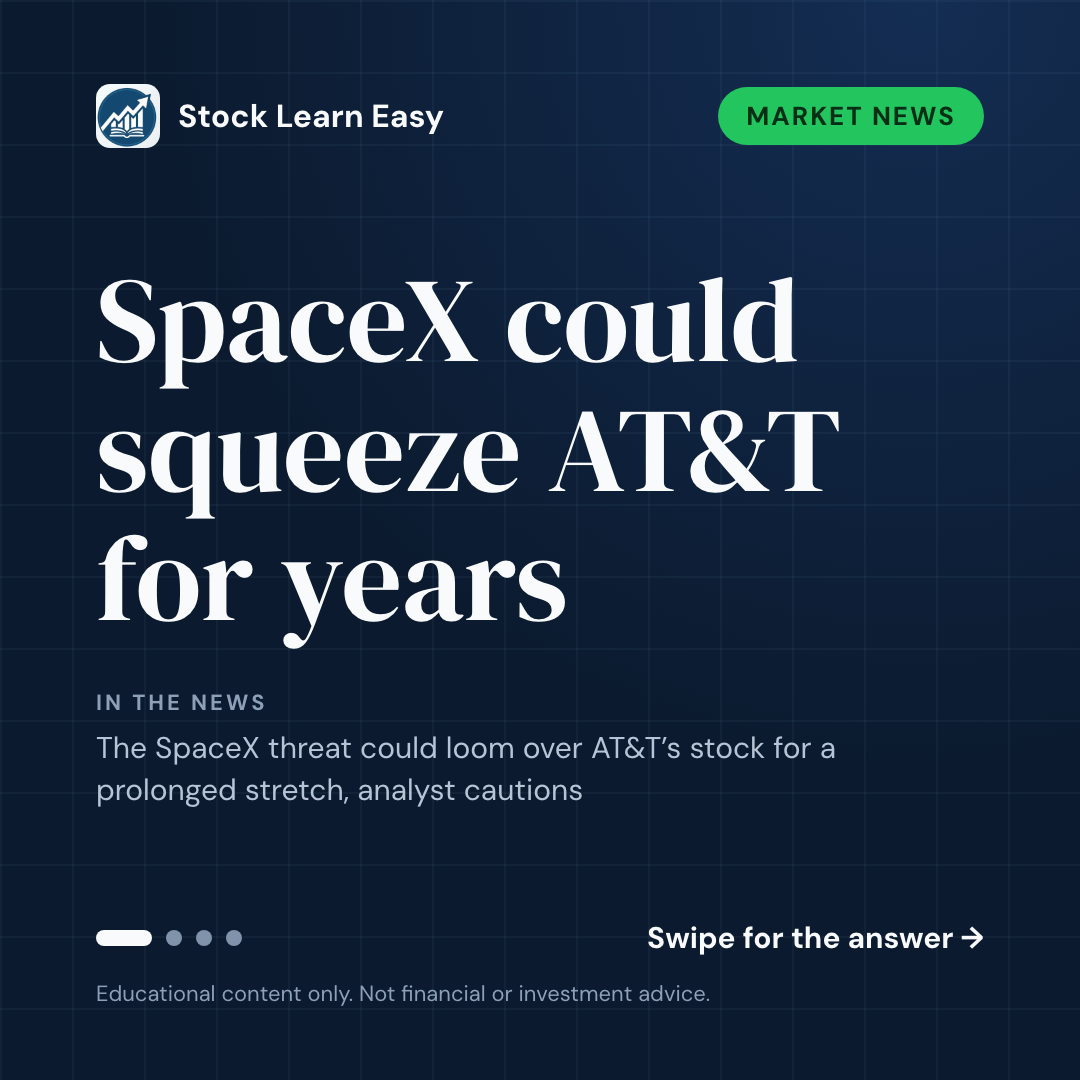
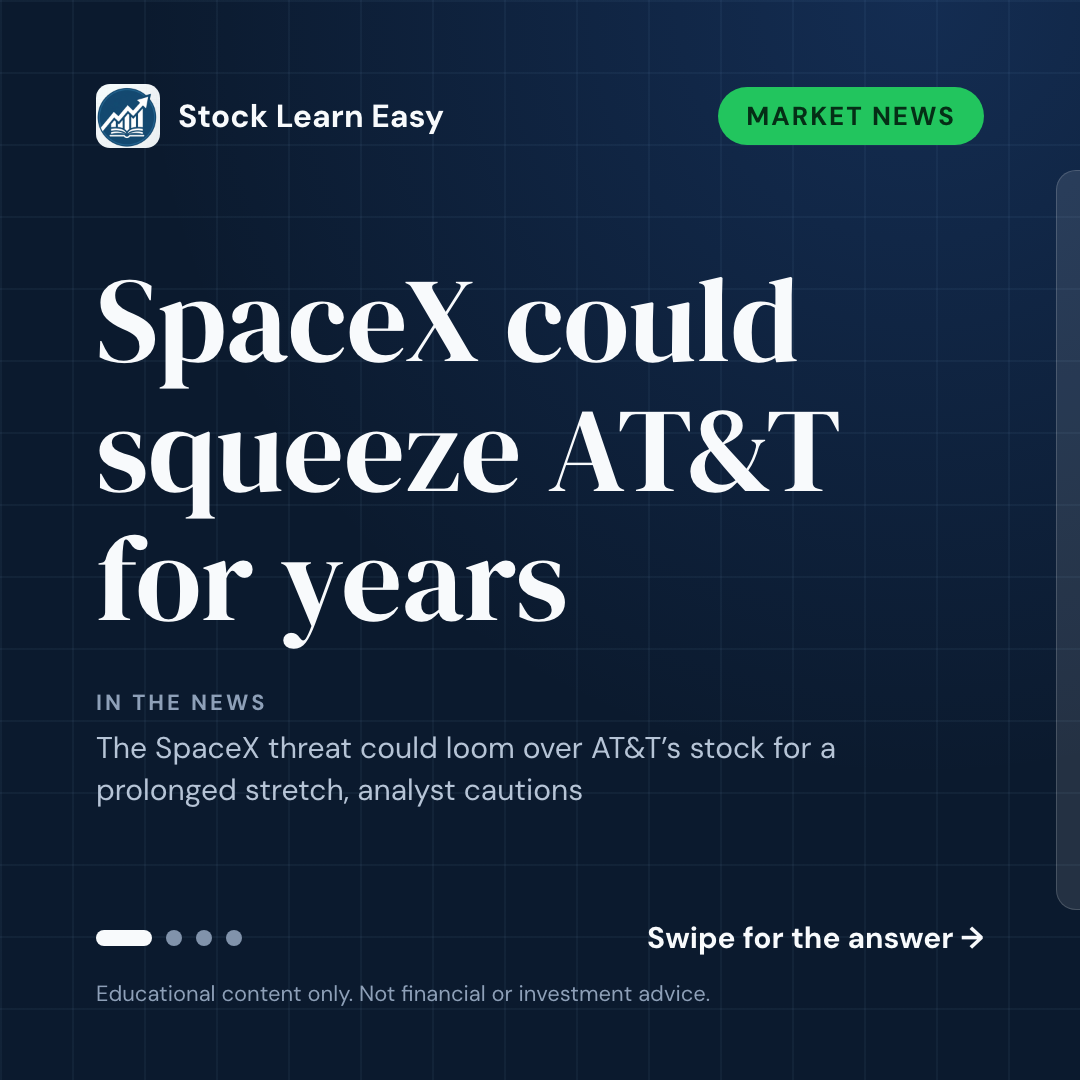
Items 45, 47, 48: chart move as hero number, next-card peek on slide one, distinct last slide; queue rebuilt

Changed region(s): [[0.9778, 0.3667, 1.0, 0.8556]]

diff --git a/generate.py b/generate.py
@@ -866,23 +866,30 @@ def _card_foot(position, total, right_html):
     )
 
 
-def chart_body_html(chart, svg_width=888, svg_height=372, scale=1.0):
-    """What is plotted, where it stands, why it's here."""
+def chart_body_html(chart, svg_width=888, svg_height=300, scale=1.0):
+    """What is plotted, where it stands, why it's here.
+
+    Item 45, 14.10.2026: the move is the number the slide is about, so it is
+    the biggest thing on the card. It used to be a 32px pill beside the
+    price, the smallest text in the row.
+    """
     series = chart["series"]
     rising = series["change_pct"] >= 0
     s = lambda px: f"{round(px * scale)}px"
+    move_color = design.GREEN_TEXT if rising else "#f87171"
     return (
         '<div style="display:flex;flex-direction:column;gap:' + s(18) + ';">'
         f'<div class="eyebrow" style="font-size:{s(26)};color:{design.GREEN_TEXT};">THE CHART · '
         f'{escape(series["range_label"].upper())}</div>'
-        f'<div style="display:flex;align-items:baseline;gap:{s(26)};flex-wrap:wrap;">'
-        f'<div class="serif" style="font-size:{s(76)};line-height:1.05;">{escape(chart["label"])}</div>'
-        f'<div class="num" style="font-size:{s(44)};font-weight:500;">'
-        f'{market_data.fmt_price(series["last"], series["currency"])}</div>'
-        f'<div class="chg {"up" if rising else "down"}" style="font-size:{s(32)};padding:{s(8)} {s(22)};">'
+        f'<div style="display:flex;align-items:center;gap:{s(34)};">'
+        f'<div class="serif num" data-chart-move style="font-size:{s(132)};line-height:1;color:{move_color};">'
         f'{market_data.fmt_pct(series["change_pct"])}</div>'
-        '</div>'
-        f'<div style="margin-top:{s(10)};">{market_data.sparkline_svg(series, width=svg_width, height=svg_height)}</div>'
+        f'<div style="display:flex;flex-direction:column;gap:{s(6)};">'
+        f'<div class="serif" style="font-size:{s(52)};line-height:1.05;">{escape(chart["label"])}</div>'
+        f'<div class="num muted" style="font-size:{s(34)};font-weight:500;">'
+        f'now {market_data.fmt_price(series["last"], series["currency"])}</div>'
+        '</div></div>'
+        f'<div style="margin-top:{s(6)};">{market_data.sparkline_svg(series, width=svg_width, height=svg_height)}</div>'
         f'<div class="muted" style="font-size:{s(32)};line-height:1.4;">{escape(chart["why"])}</div>'
         f'<div class="faint" style="font-size:{s(22)};">Price data: Yahoo Finance. '
         'Past performance is not a prediction.</div>'
@@ -911,7 +918,8 @@ def render_slide_html(kind, position, total, category, when_utc, copy,
         foot = _card_foot(position, total, '<span class="muted">Swipe →</span>')
         # Flat ground: the grid and the glow are part of the brand frame too.
         flat = '<style>body { background-image:none; }</style>'
-        return design.page(CARD_SIZE, CARD_SIZE, CARD_PADDING, f'{flat}{main}{foot}')
+        peek = design.PEEK_HTML if total > 1 else ''
+        return design.page(CARD_SIZE, CARD_SIZE, CARD_PADDING, f'{flat}{main}{foot}{peek}')
 
     if kind == "hook":
         source = term[0] if category == "term" else news["title"]
@@ -985,8 +993,13 @@ def render_slide_html(kind, position, total, category, when_utc, copy,
         )
         foot = _card_foot(position, total, '<span class="faint">@stocklearneasy</span>')
 
+    extra = ''
+    if position == 1 and total > 1:
+        extra = design.PEEK_HTML
+    elif position == total and total > 1:
+        extra = design.END_CSS
     return design.page(CARD_SIZE, CARD_SIZE, CARD_PADDING,
-                       f'{head}{main}{foot}')
+                       f'{head}{main}{foot}{extra}')
 
 # Item 43. Slide one is mostly seen as a thumbnail about 150px wide, so the
 # hook has to clear a type size at that scale, not at 1080. 12px there is

diff --git a/design.py b/design.py
@@ -187,6 +187,30 @@ def dots_html(position, total):
     ) + "</div>"
 
 
+# Item 47, 14.10.2026: the dots alone were the only hint that slide one is
+# the first of several. A sliver of the next card at the right edge is the
+# cue people already read from every other carousel. It sits in the 96px
+# side padding, so it never touches the copy.
+PEEK_HTML = (
+    '<div style="position:fixed;right:0;top:170px;bottom:170px;width:24px;'
+    'background:rgba(255,255,255,0.10);border:1px solid rgba(255,255,255,0.16);'
+    'border-right:none;border-radius:20px 0 0 20px;"></div>'
+)
+
+# Item 48, 14.10.2026: the last slide shared the middle slides' ground, so
+# the end of the carousel did not feel like an end. It gets a green glow from
+# the bottom (towards the app CTA) and a green rule across the top.
+END_CSS = """<style>
+body {
+  background-image:
+    radial-gradient(circle at 20% 100%, rgba(34,197,94,0.17), rgba(34,197,94,0) 60%),
+    linear-gradient(rgba(148,184,230,0.055) 2px, transparent 2px),
+    linear-gradient(90deg, rgba(148,184,230,0.055) 2px, transparent 2px);
+}
+body::before { content:""; position:fixed; left:0; right:0; top:0; height:10px; background:GREEN_TOKEN; }
+</style>""".replace("GREEN_TOKEN", GREEN)
+
+
 def page(width, height, padding, body_html):
     return f"""<!DOCTYPE html>
 <html lang="en" dir="ltr">

diff --git a/IMPROVEMENTS.md b/IMPROVEMENTS.md
@@ -95,3 +95,12 @@ One improvement per run of `stocklearneasy-ig-improve`. Read before choosing.
 - **Item 43, gated:** the fit script now records the size it settled on, `hook_thumb_px` reads it back with a `--dump-dom` pass, and a hook under 12px at thumbnail scale is re-rendered without the source headline. Tested with a 12-word nonsense hook: fallback fired, still 9.7px, shipped with a warning as designed. All five queued slots rebuilt, 15 to 16.7px. Costs one extra headless Chrome call per post.
 - **Hebrew account not touched.** 42, 43, 13, 16 and 40 are all still SLE-only.
 - **Numbers (7d):** 3 followers, 10 posts, reach 69, views 97, 1 like, 1 comment, 0 saves or shares. The 10.10 reel at 53 is still the whole story; every other post 1 to 7. Nothing credited.
+
+## 2026-10-14: items 45, 47, 48 and 50, the carousel frame
+- **Item 20 still not eligible** (oldest post 17.9, first 30-day repost 17.10). Tier B is fully done, so this run moved into Tier C.
+- **Item 45:** the chart slide's move is the hero, 132px serif in green or red, with the label and "now 16.82" beside it. The sparkline went from 372 to 300px tall to make room. Carousels only.
+- **Item 47:** slide one of every multi-slide carousel has a sliver of the next card at the right edge, the swipe cue every other carousel uses. Applies to plain-hook and chart-first too.
+- **Item 48:** the last slide has a green glow from the bottom towards the app CTA and a green rule across the top, so the end reads as an end.
+- **Item 50:** measured instead of changed. The question line is 9.9:1 on the navy, not the weakest element; the off-dots at 5.6:1 are, and they clear AA. Marked done with no change.
+- **Queue:** 15.10 12:00 and 18:00, 16.10 12:00 and 18:00 rebuilt and inspected. 14.10 18:00 was left alone because it was publishing as this ran. Hebrew account not touched.
+- **Numbers (7d):** 3 followers, 10 posts, reach 73, views 96, 2 likes, 1 comment, 0 saves or shares. Unchanged from 13.10; the 10.10 reel at 53 is still most of the reach. Nothing credited.

diff --git a/metrics/winners.md b/metrics/winners.md
@@ -1,14 +1,14 @@
 # Above-median posts (backlog item 19)
 
-Generated by winners.py from the 2026-10-13..2026-10-13 snapshots. 50 posts, median reach 2.
+Generated by winners.py from the 2026-10-14..2026-10-14 snapshots. 52 posts, median reach 2.
 
 Copy the structure, never the topic. A shape with fewer than 10 posts is an anecdote (item 86).
 
 ## Median reach by shape
 
 - episode reel: median 16.5 over 4 posts (too few to conclude)
-- news reel: median 4 over 12 posts
-- carousel: median 2 over 34 posts
+- news reel: median 5 over 13 posts
+- carousel: median 2 over 35 posts
 
 ## Above the median
 
@@ -21,6 +21,7 @@ Copy the structure, never the topic. A shape with fewer than 10 posts is an anec
 - 2026-10-09T1200 reach 7, shares 0, saves 0: news reel, 20.62s, term, question hook. "Is that big price jump real or noise?"
 - 2026-09-30T1200 reach 5, shares 0, saves 0: news reel, 24.61s, movers. "📉📈 Market Movers"
 - 2026-10-02T1200 reach 5, shares 0, saves 0: news reel, 29.76s, news. "📰 Today's Market News"
+- 2026-10-13T1200 reach 5, shares 0, saves 0: news reel, 21.51s, term, question hook. "Is $90 cheap or expensive for this stock?"
 - 2026-10-05T1115 reach 4, shares 0, saves 0: episode reel, 20.5s, compound. "Slow for years. Then fast."
 - 2026-09-22T1200 reach 3, shares 0, saves 0: carousel, movers. "📉📈 Market Movers"
 - 2026-09-28T1800 reach 3, shares 0, saves 0: carousel, macro. "🏦 Macro Watch"
